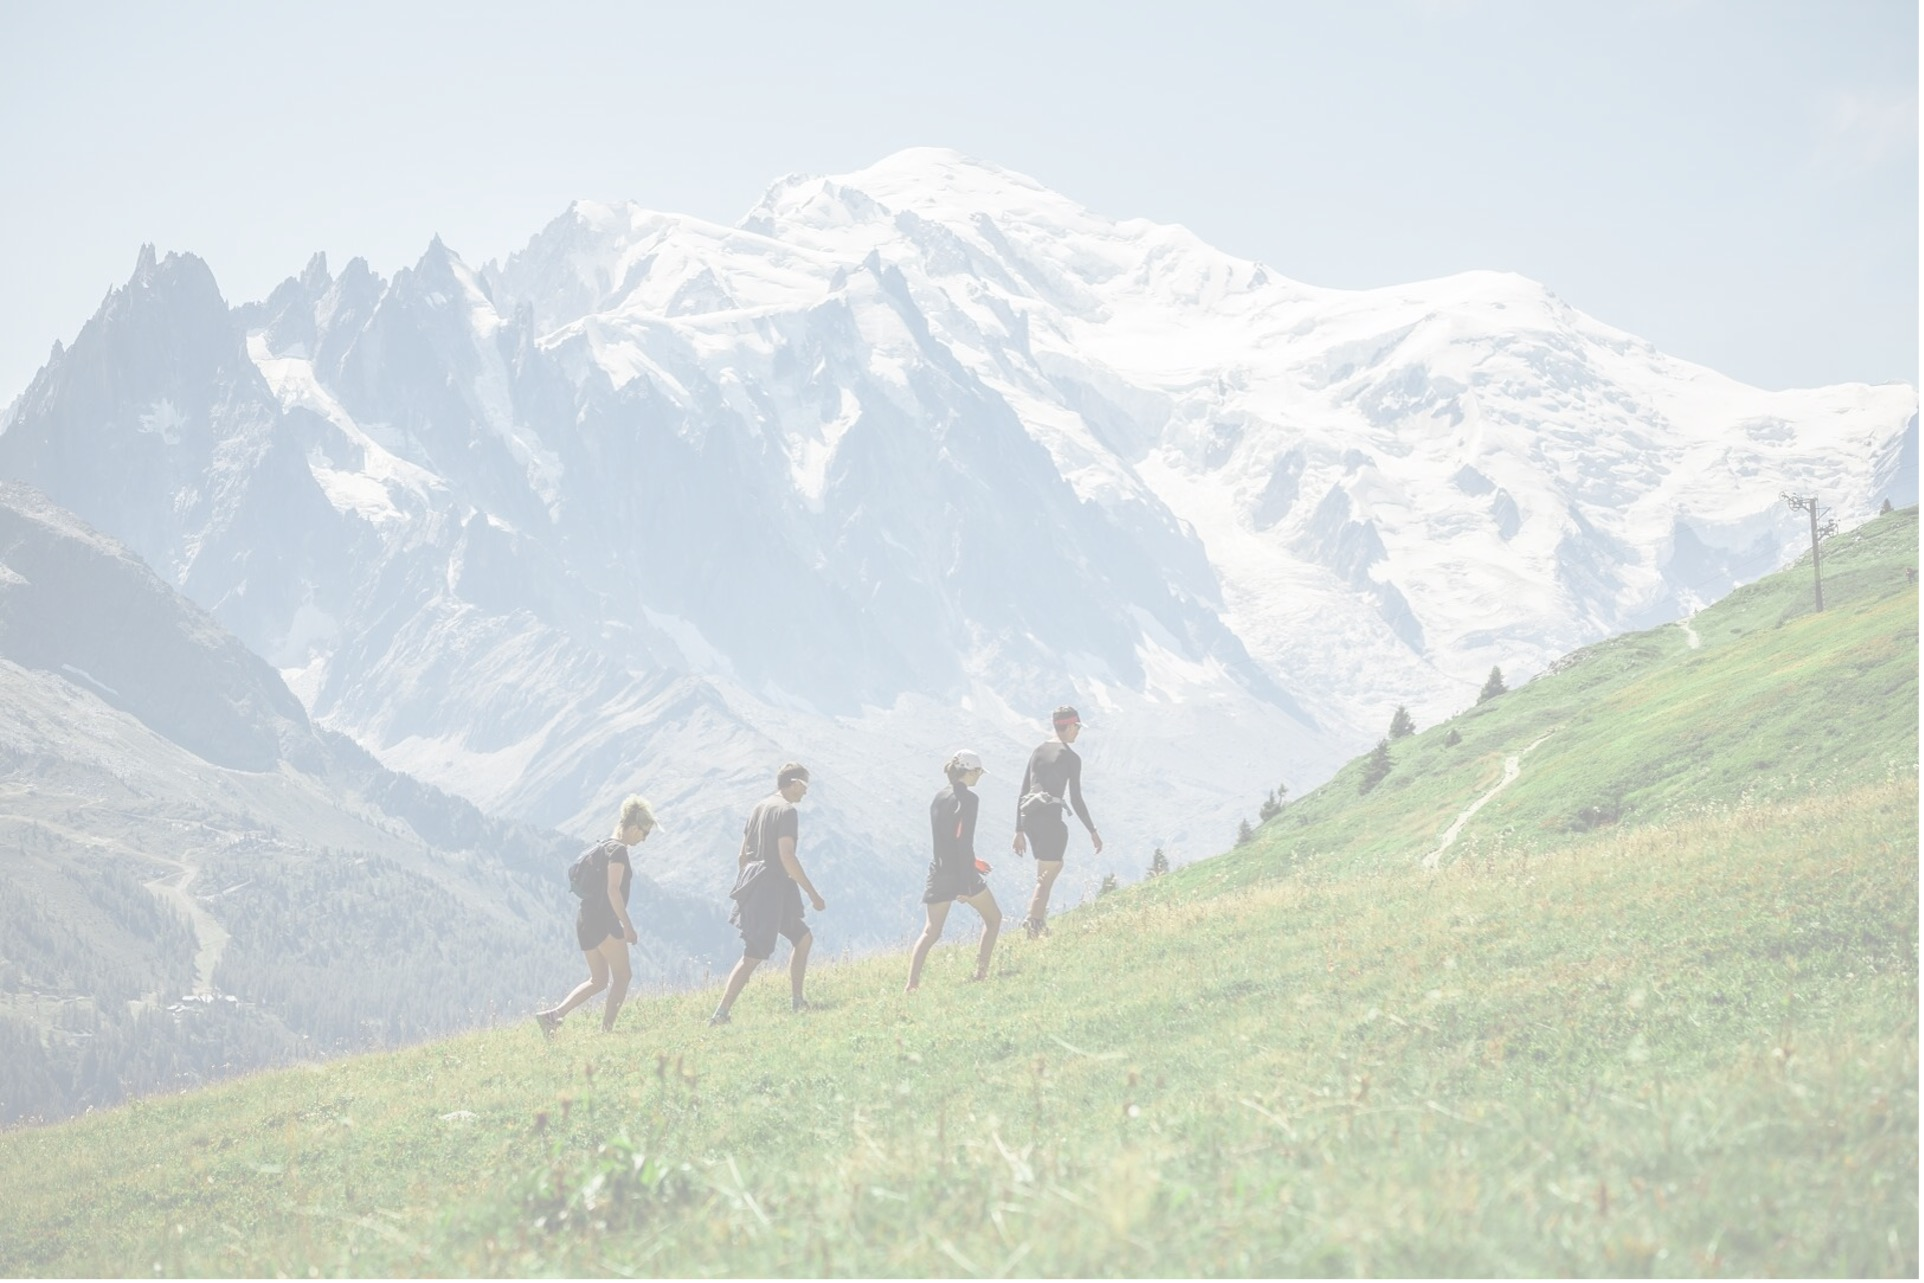
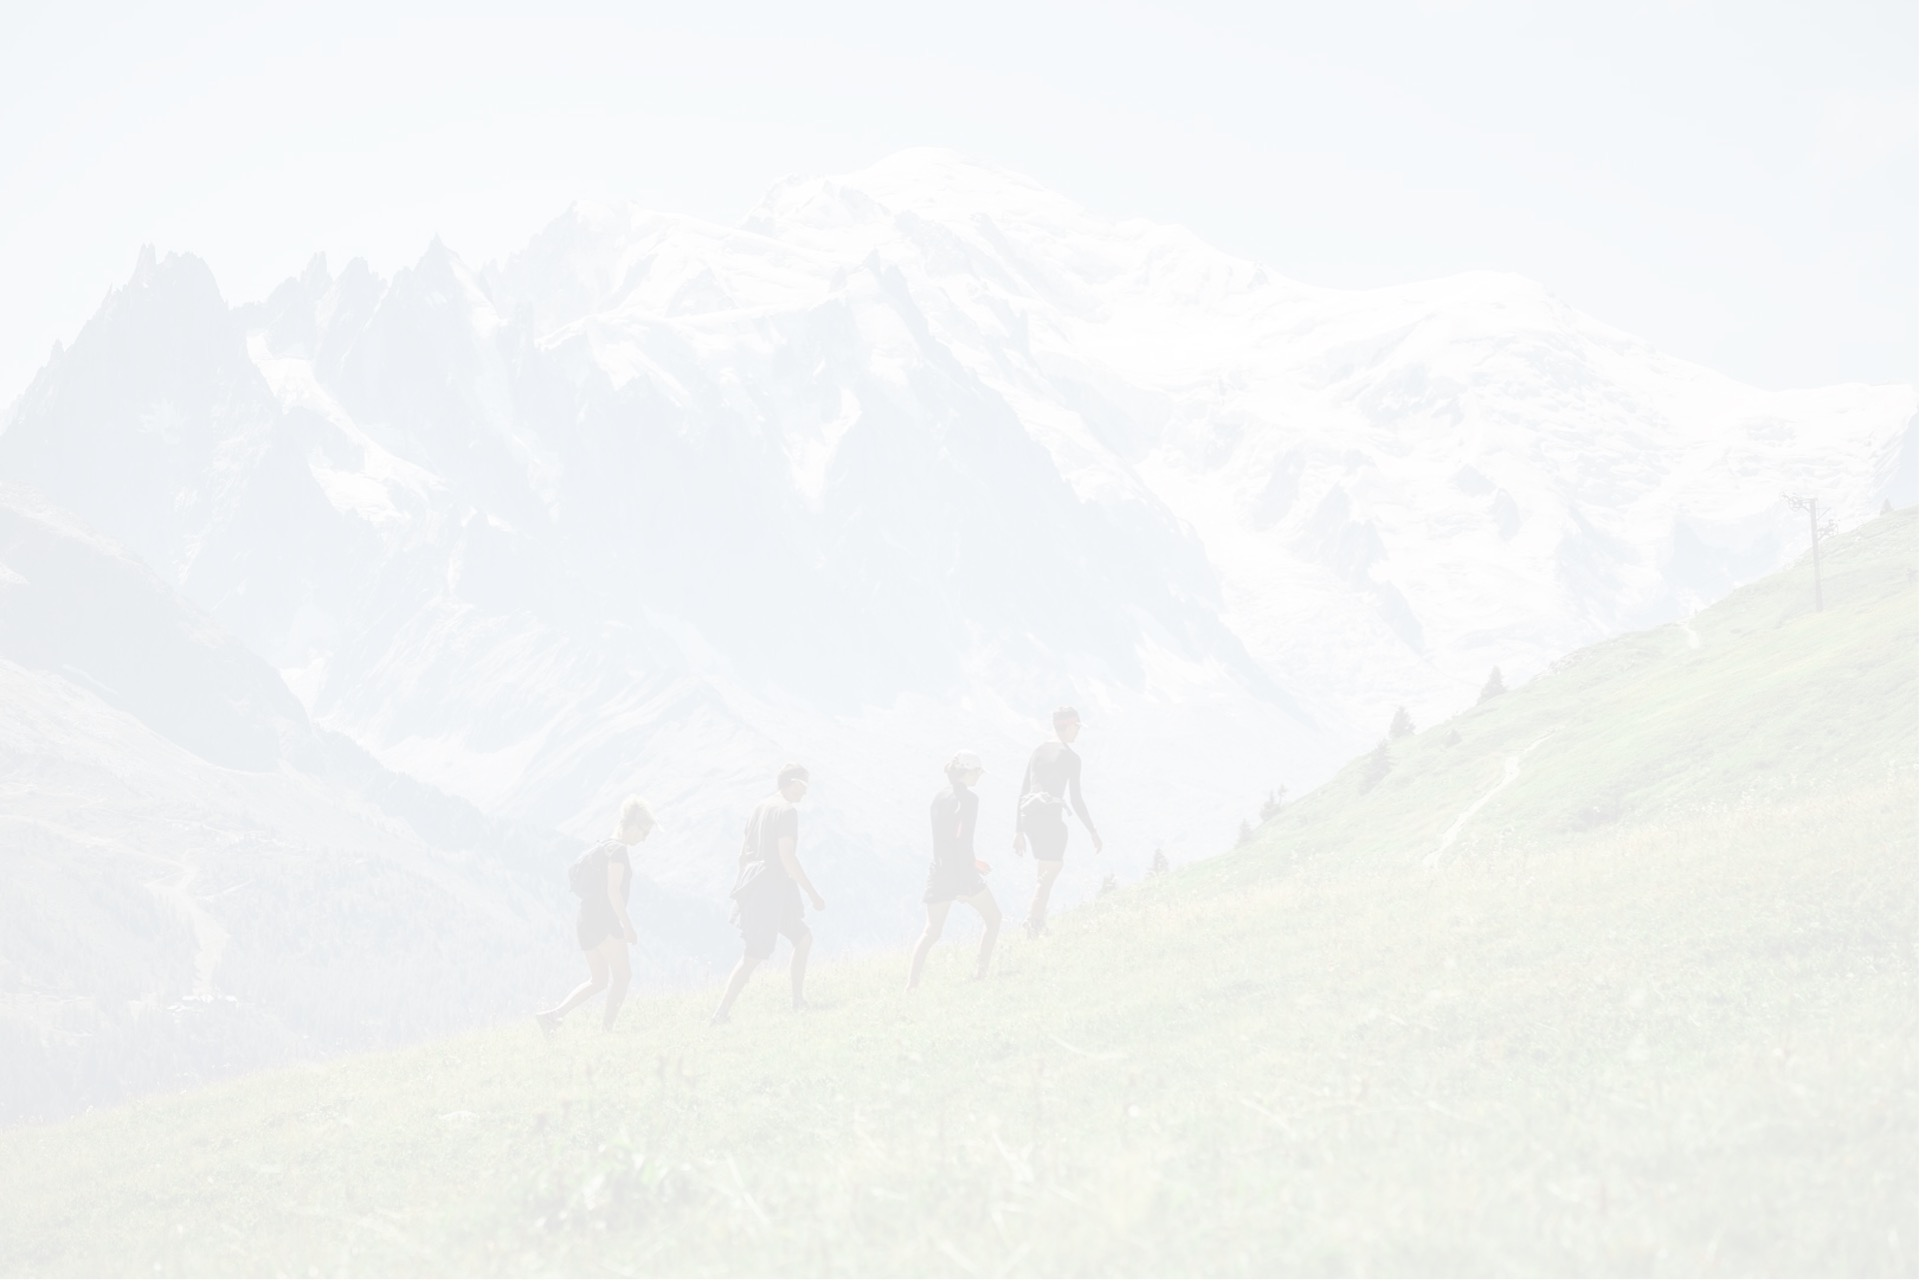
Modif opacité fond

diff --git a/topoguide/itineraires/templates/itineraires/sorties.html b/topoguide/itineraires/templates/itineraires/sorties.html
@@ -10,10 +10,12 @@
     <div class="row">
         <div class="col">
         <h1>{{itineraire.titre}}</h1>
-        {{itineraire.description}} depuis {{itineraire.point_depart}}
+        {{itineraire.description}}
         <br><br>
         <div class="container" id="mapid" style="width: 600px; height: 400px;float: right"></div>
             <tr>
+                <td><b>Point de départ</b> : {{itineraire.point_depart}}</td>
+                <br>
                 <td><b>Altitude de départ</b> : {{itineraire.altitude_depart}} mètres</td>
                 <br>
                 <td><b>Altitude minimale</b> : {{itineraire.altitude_minimale}} mètres</td>

diff --git a/topoguide/itineraires/models.py b/topoguide/itineraires/models.py
@@ -19,7 +19,7 @@ class Itineraire(models.Model):
     longitude_depart = models.FloatField('Longitude point de départ')
     latitude_arrivee = models.FloatField('Latitude point arrivée')
     longitude_arrivee = models.FloatField('Longitude point arrivée')
-    description = models.CharField(max_length=400)
+    description = models.CharField(max_length=2000)
     altitude_depart = models.PositiveIntegerField('Altitude de départ (m)')
     altitude_minimale = models.PositiveIntegerField('Altitude minimale (m)')
     altitude_maximale = models.PositiveIntegerField('Altitude maximale (m)')
